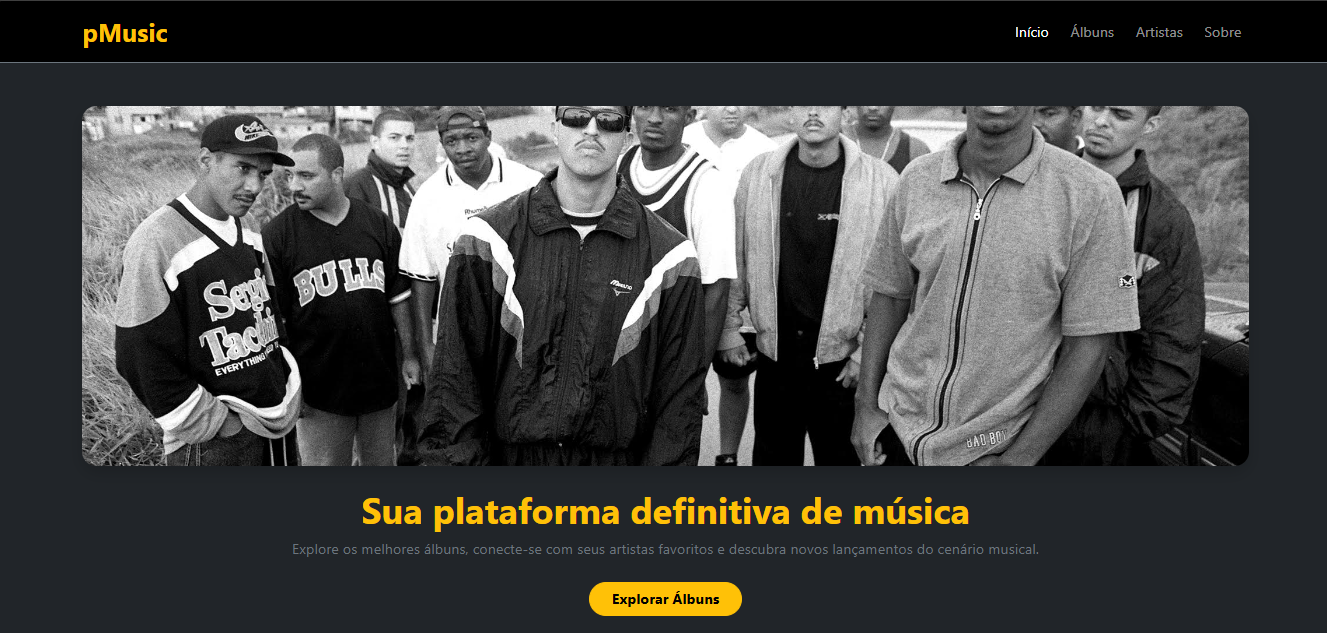
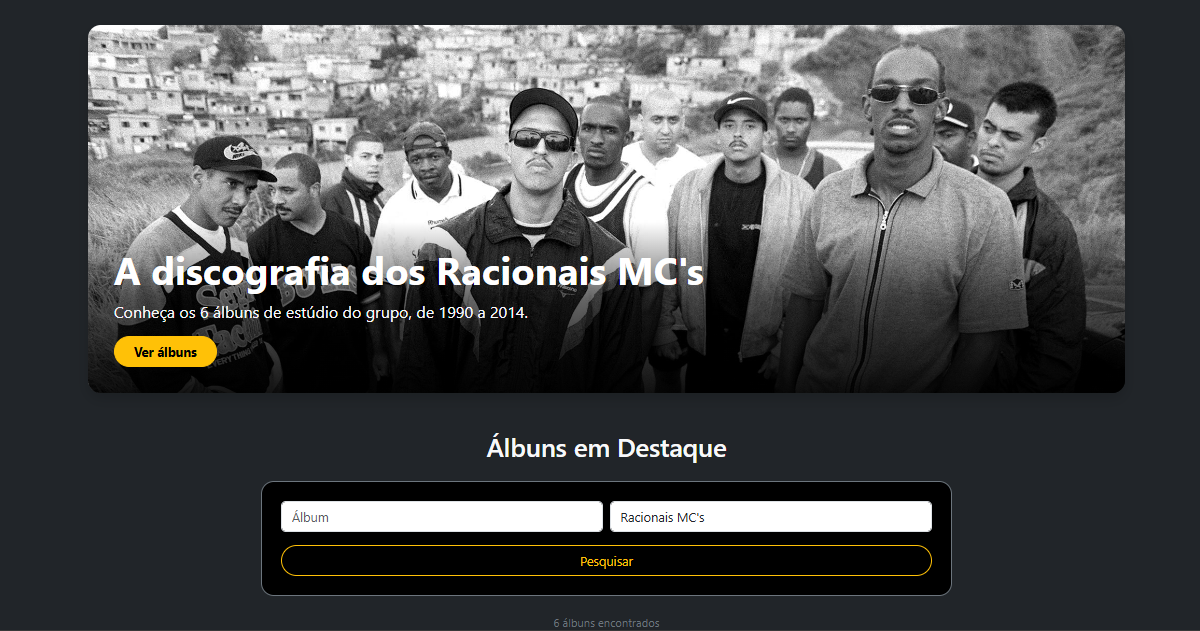
README

diff --git a/README.md b/README.md
@@ -7,7 +7,6 @@ Proposta escolhida: Coleções e Itens
 Descrição do projeto:
 É uma aplicação web voltada para a exploração e organização de álbuns musicais. A aplicação apresenta álbuns e seus respectivos artistas, permitindo futuramente consultar suas faixas e buscar diferentes conteúdos musicais.
 
-
 2. Home-page
 
 Abaixo está o resultado da implementação da Home-page utilizando HTML e CSS.
@@ -17,7 +16,5 @@ Versão Desktop
 ![Print da Home-page](public/images/desktop2.png)
 ![Print da Home-page](public/images/desktop3.png)
 
-Versão Mobile
-![Print da Home-page](public/images/mobile1.png)
-![Print da Home-page](public/images/mobile2.png)
-![Print da Home-page](public/images/mobile3.png)
+JSON
+![Print da Home-page](public/images/js.png)
